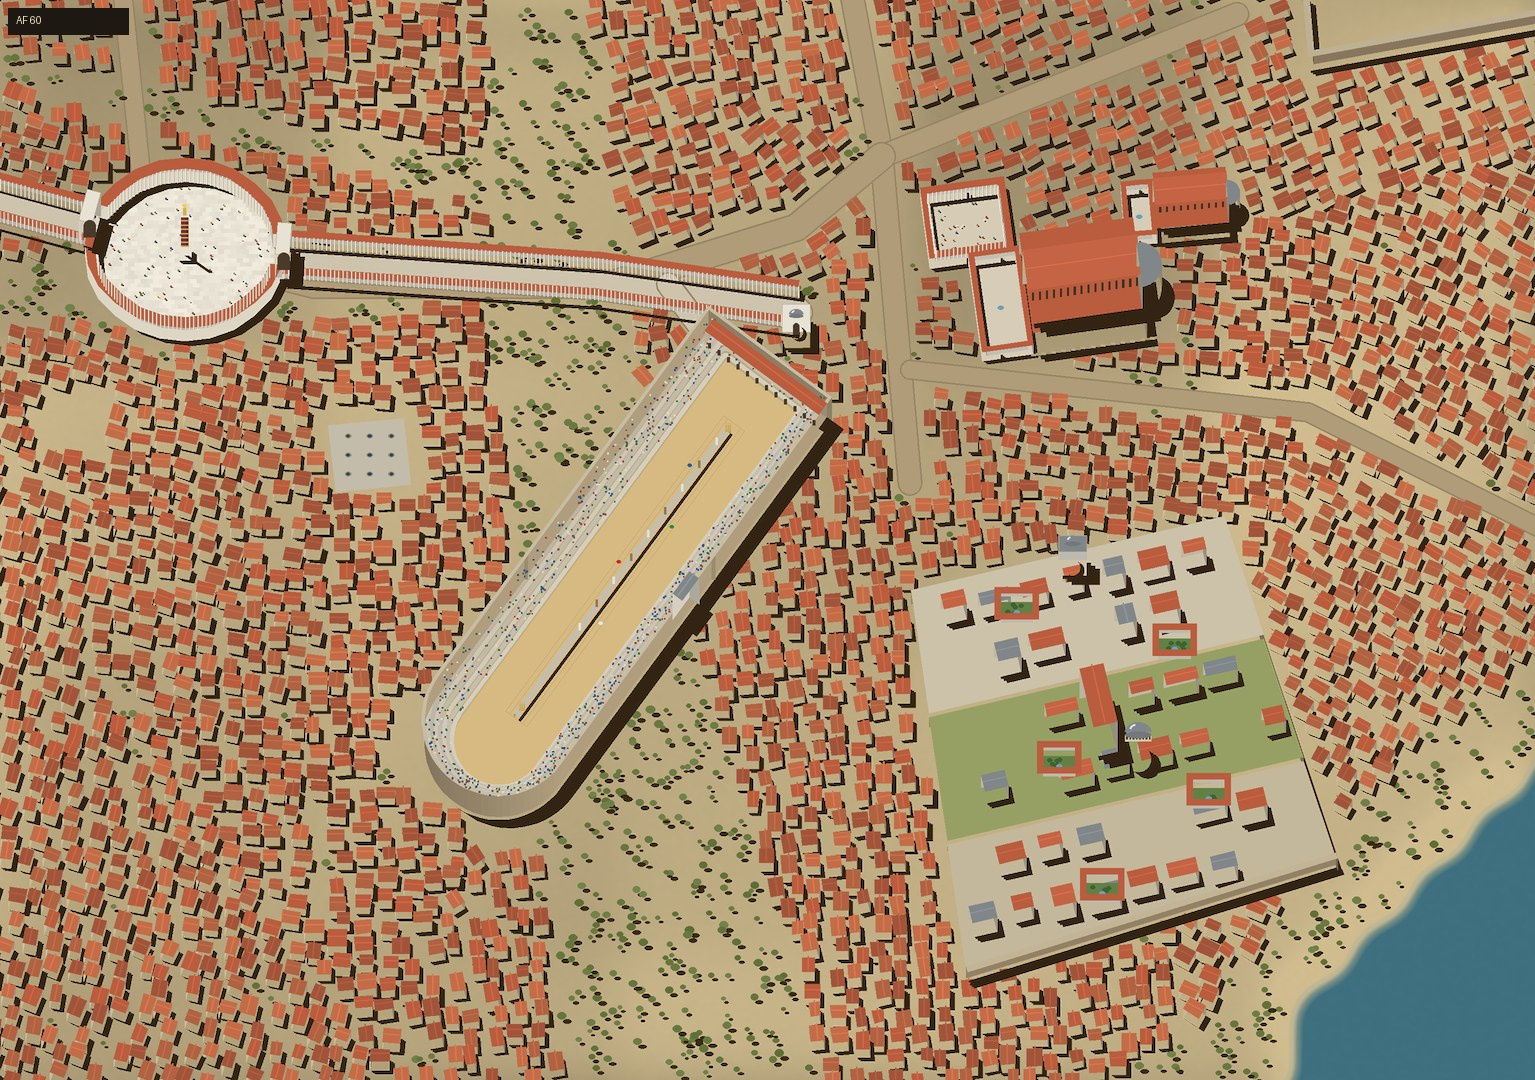
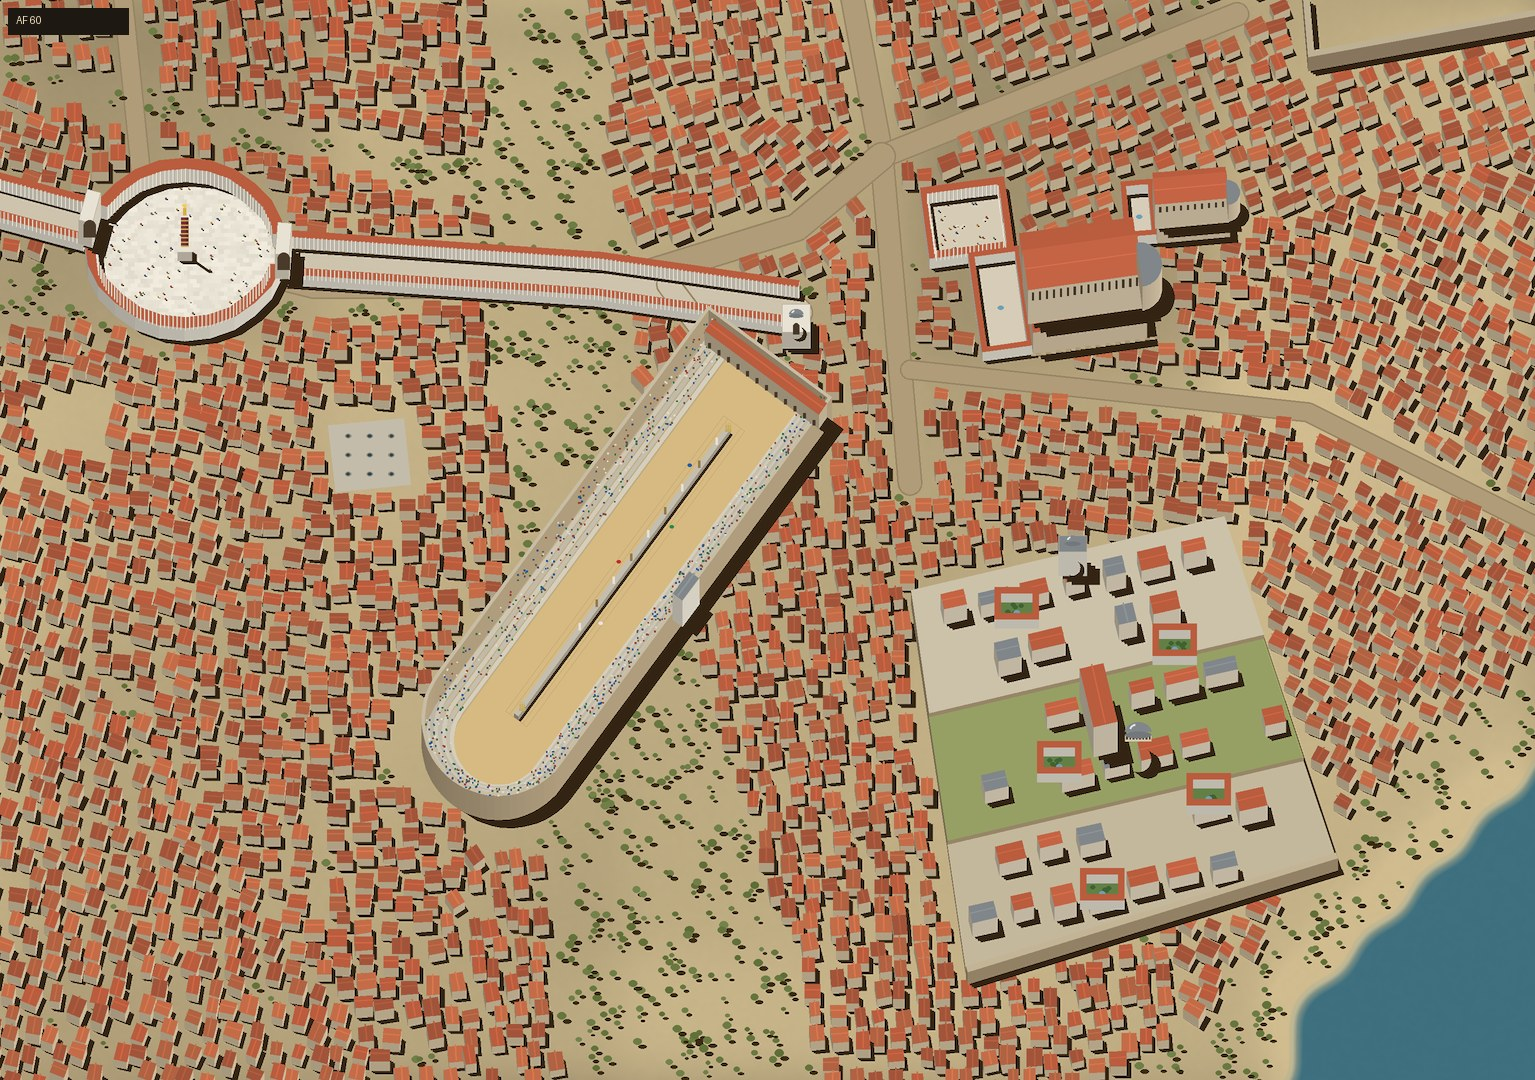
preview/epic: 南岸港口粮仓、城墙城门；建筑南墙立面修正 ——Hark

diff --git a/docs/preview/epic/index.html b/docs/preview/epic/index.html
@@ -1,6 +1,8 @@
 <!doctype html><meta charset="utf-8"><title>安托萨 · 史诗建筑预览（本地原型）</title>
 <style>body{margin:0;background:#1d1a16;color:#eee;font:15px/1.6 system-ui,sans-serif}main{max-width:1400px;margin:auto;padding:20px}img{width:100%;border-radius:6px;margin:6px 0 26px}h1{font-size:22px}h2{font-size:17px;color:#e8c98a}</style>
 <main><h1>干山东扩 · 狄奥多西广场与大宁芙泉（预览，尚未接入正式页面）</h1>
+<h2>南岸港口与粮仓：建城元年 / 33 年 / 60 年（尤利安港 → 狄奥多西港 → 狄奥多西粮仓、亚历山大粮仓）</h2><img src="epic_shore_af1_33_60.jpg">
+<h2>创城者城墙与城门：建城前 / 11 年 / 60 年（城门卫队营房 AF11）</h2><img src="epic_gate_af0_11_60.jpg">
 <h2>帝国中心：建城前一年 → 建城元年（拜扎斯老城 → 君士坦丁广场、竞技场、大皇宫、梅塞柱廊）</h2><img src="epic_core_af0_af1.jpg">
 <h2>建城 30 年：大教堂落成（木顶巴西利卡，地基用拜扎斯旧墙石）</h2><img src="epic_core_af30.jpg">
 <h2>建城 60 年：帝国中心</h2><img src="epic_core_af60.jpg">
